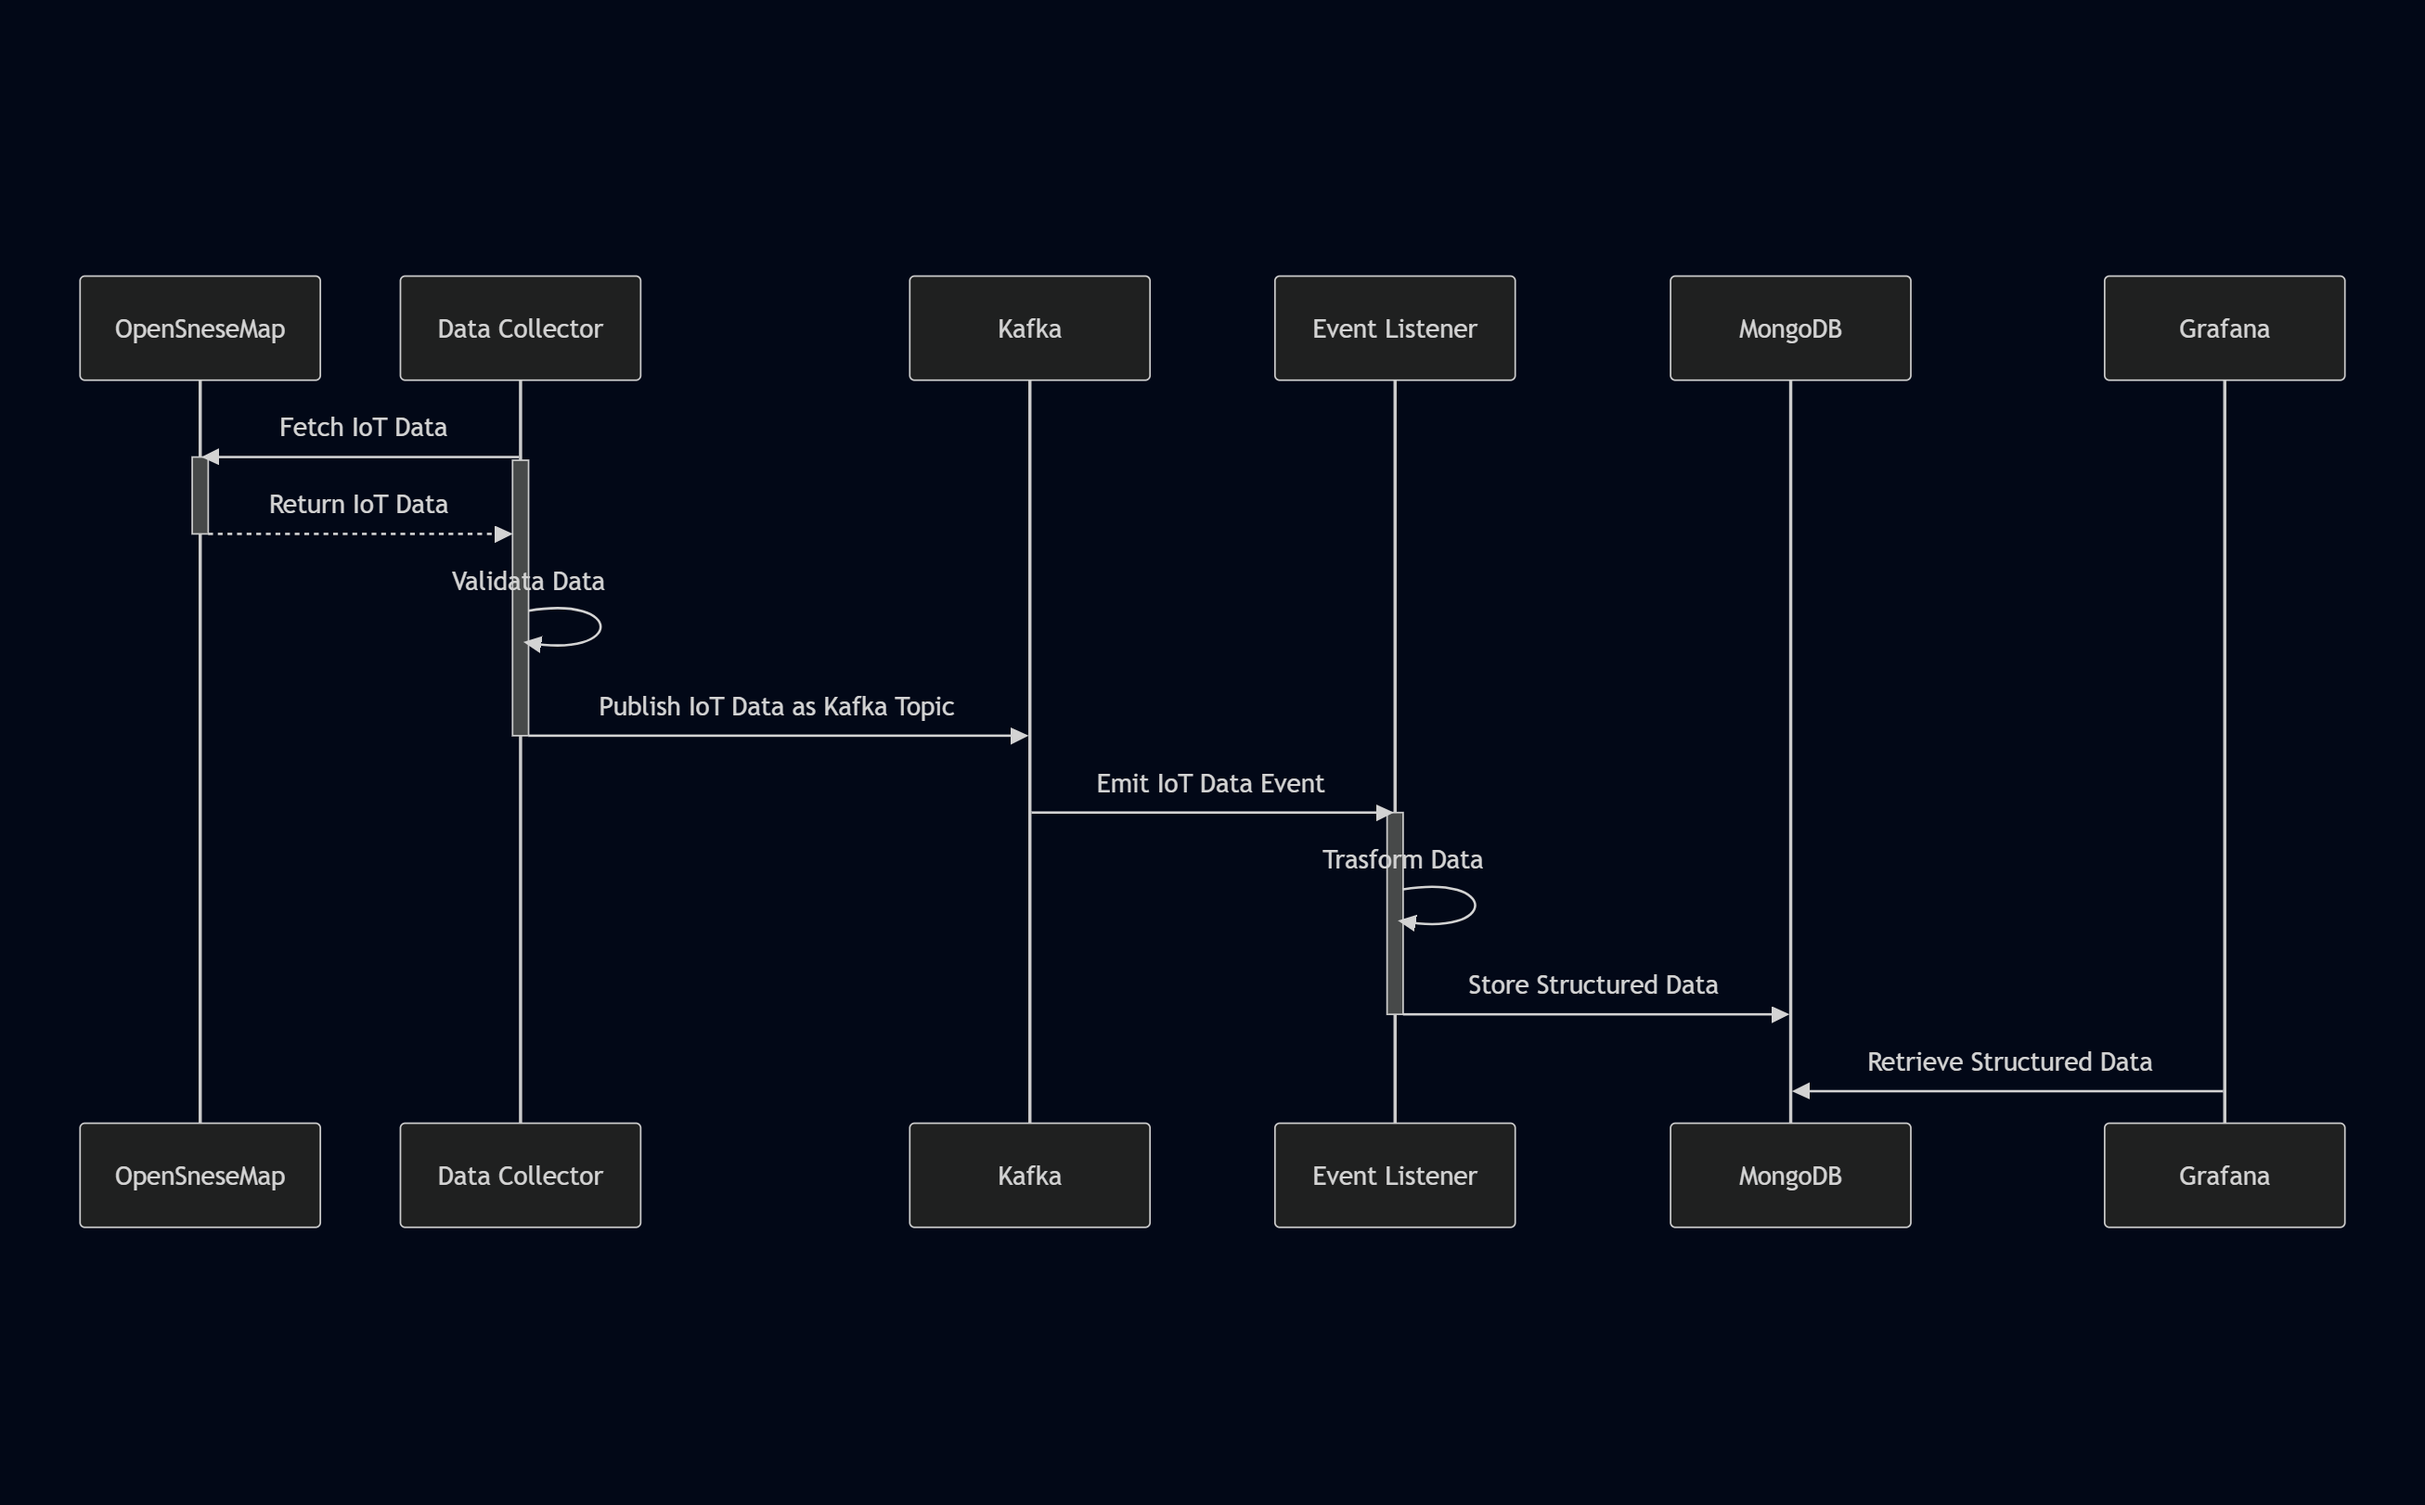
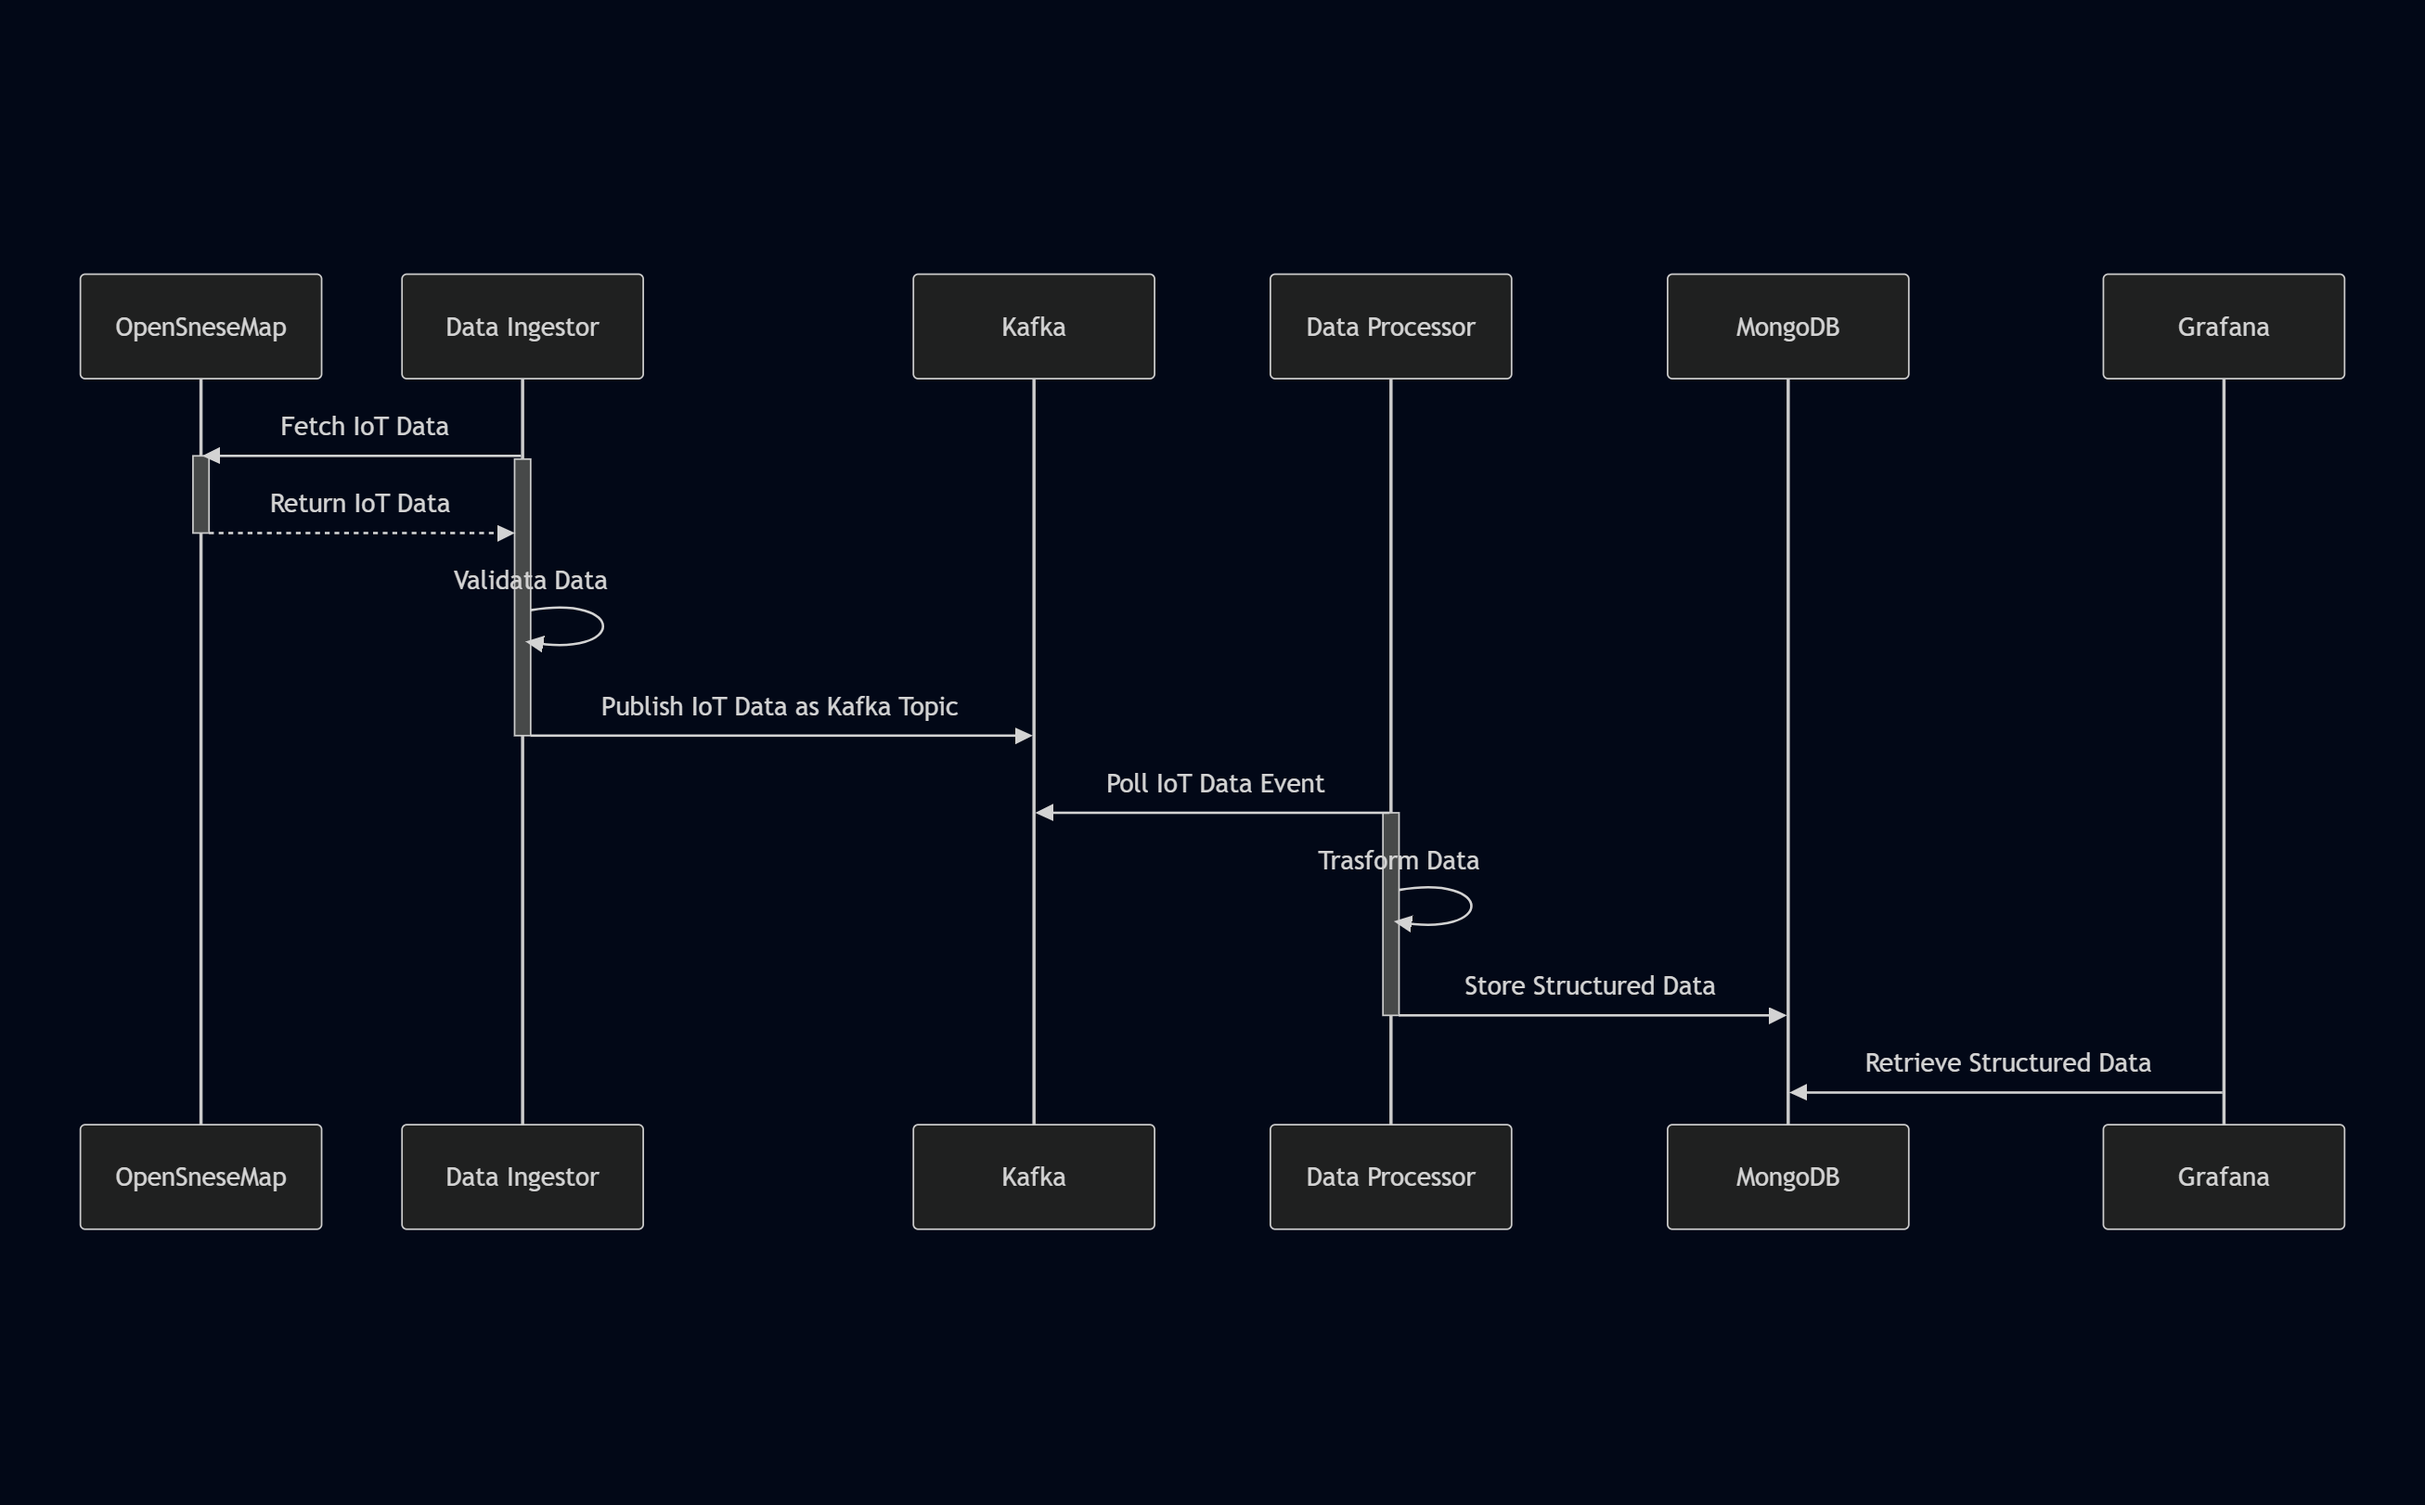
update architecture

diff --git a/architecture/Architecture.md b/architecture/Architecture.md
@@ -9,19 +9,19 @@ This document outlines the architecture of the Kafka IoT Project, focusing on ho
 
 | Component         | Role                                                    |
 |------------------|----------------------------------------------------------|
-| **Data Collector**| Fetches real-time sensor data from OpenSense and  Publishes to Kafka. Acts as the interface between external APIs and internal processing. |
+| **Data Ingestor**| Fetches real-time sensor data from OpenSense and  Publishes to Kafka (Kafka Producer). Acts as the interface between external APIs and internal processing. |
 | **Kafka**         | Serves as the decoupling middleware for data ingestion and distribution. Enables high-throughput, fault-tolerant message queues. |
-| **Event Listener**| Subscribes to Kafka topics, processes/validates messages, and writes structured data to MongoDB. |
+| **Data Processor**| Subscribes to Kafka topics, processes the messages, and writes structured data to MongoDB. |
 | **MongoDB**       | NoSQL document-based database that stores time-series and structured sensor data. Designed for scalability and flexible schema. |
 | **Grafana**       | Connects to MongoDB and renders live dashboards with filters, charts, and alerts for real-time analytics. |
 
 ## Summary of Integration
 | Consumer | Provider | Protocol | Description |
 |-|-|-|-|
-|Data Collector|OpenSense|HTTPS|Fetches IoT data from OpenSense's REST API|
-|Data Collector|Kafka|Kafka Message|Publishes the IoT data from OpenSense as Kafka Topic|
-|Event Listener|Kafka|Kafka Message|Consumes the Kafka Topic containing IoT data|
-|Event Listener|MongoDB|MongoDB Wire|Writes IoT data to database|
+|Data Ingestor|OpenSense|HTTPS|Fetches IoT data from OpenSense's REST API|
+|Data Ingestor|Kafka|Kafka Message|Publishes the IoT data from OpenSense as Kafka Topic|
+|Data Processor|Kafka|Kafka Message|Consumes the Kafka Topic containing IoT data|
+|Data Processor|MongoDB|MongoDB Wire|Writes IoT data to database|
 |Grafana|MongoDB|MongoDB Wire|Reads IoT data from database|
 
 ## System Behaviour
